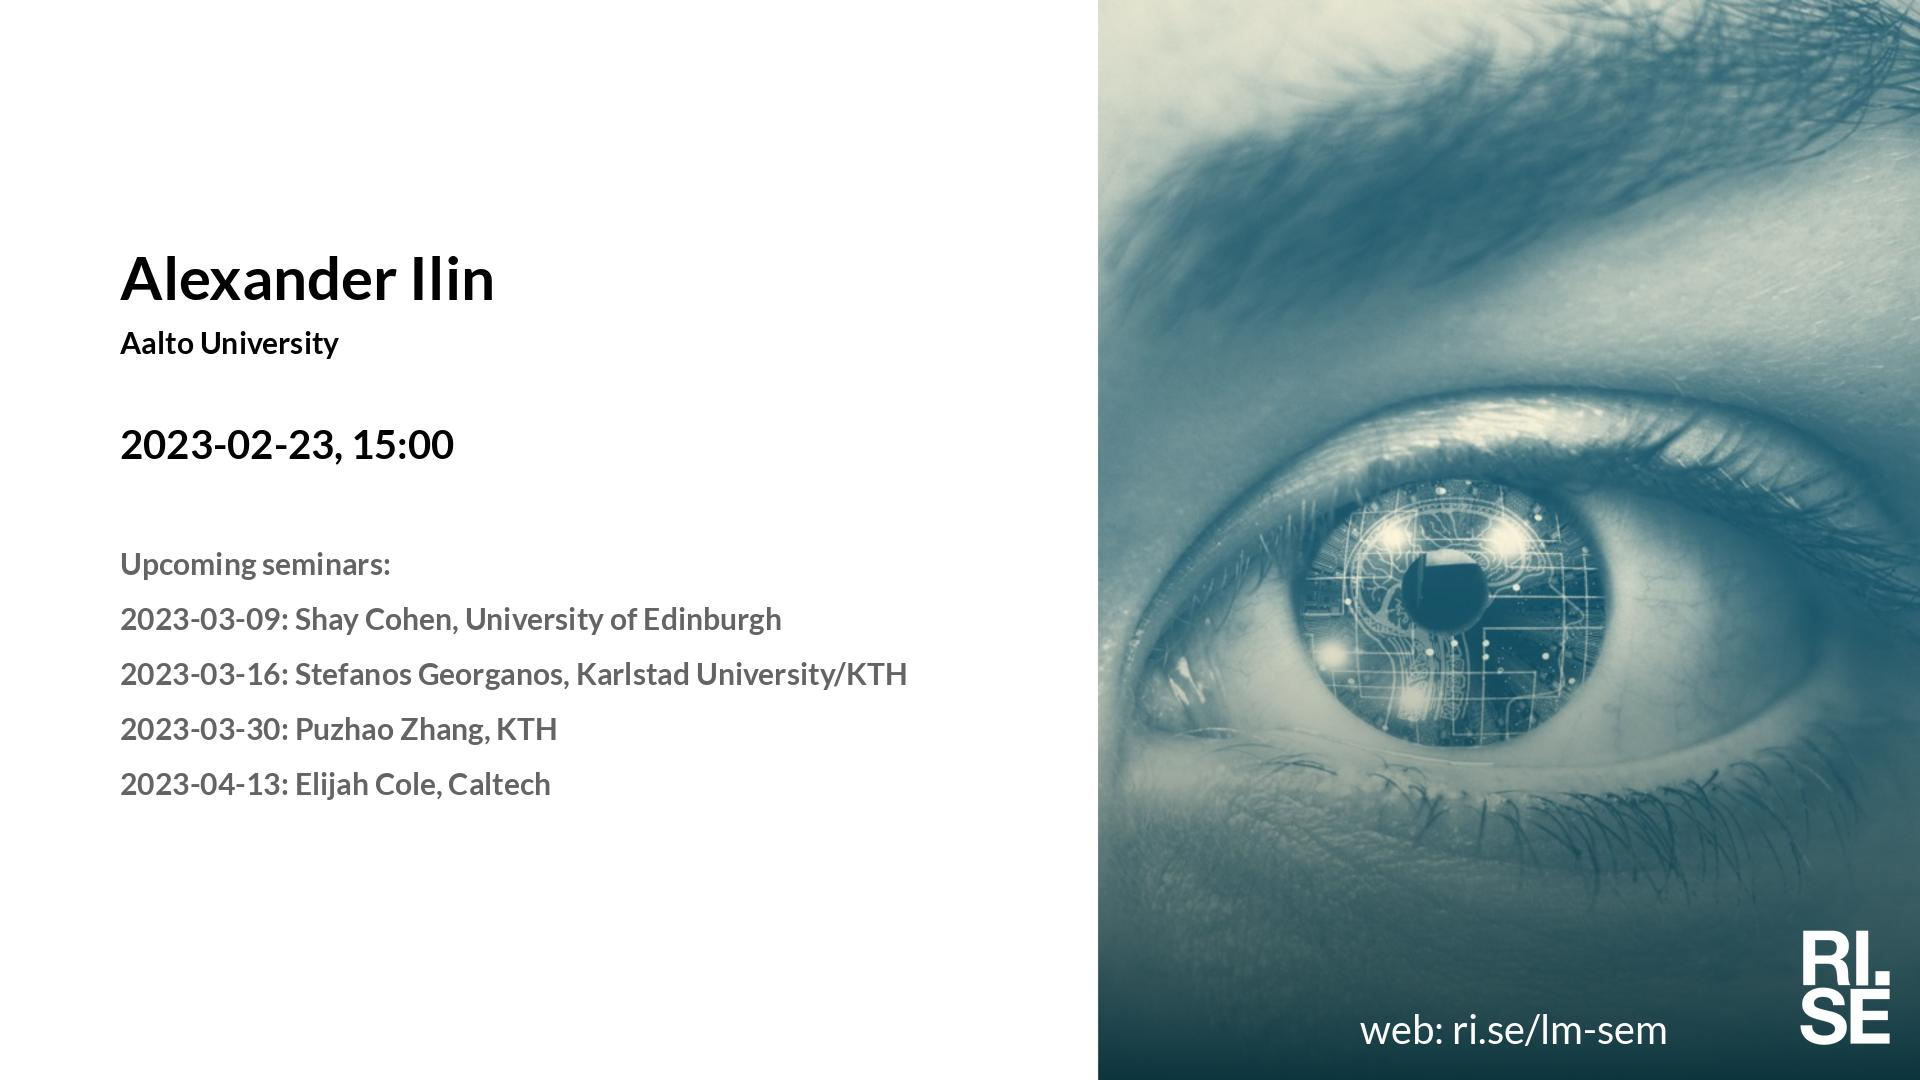
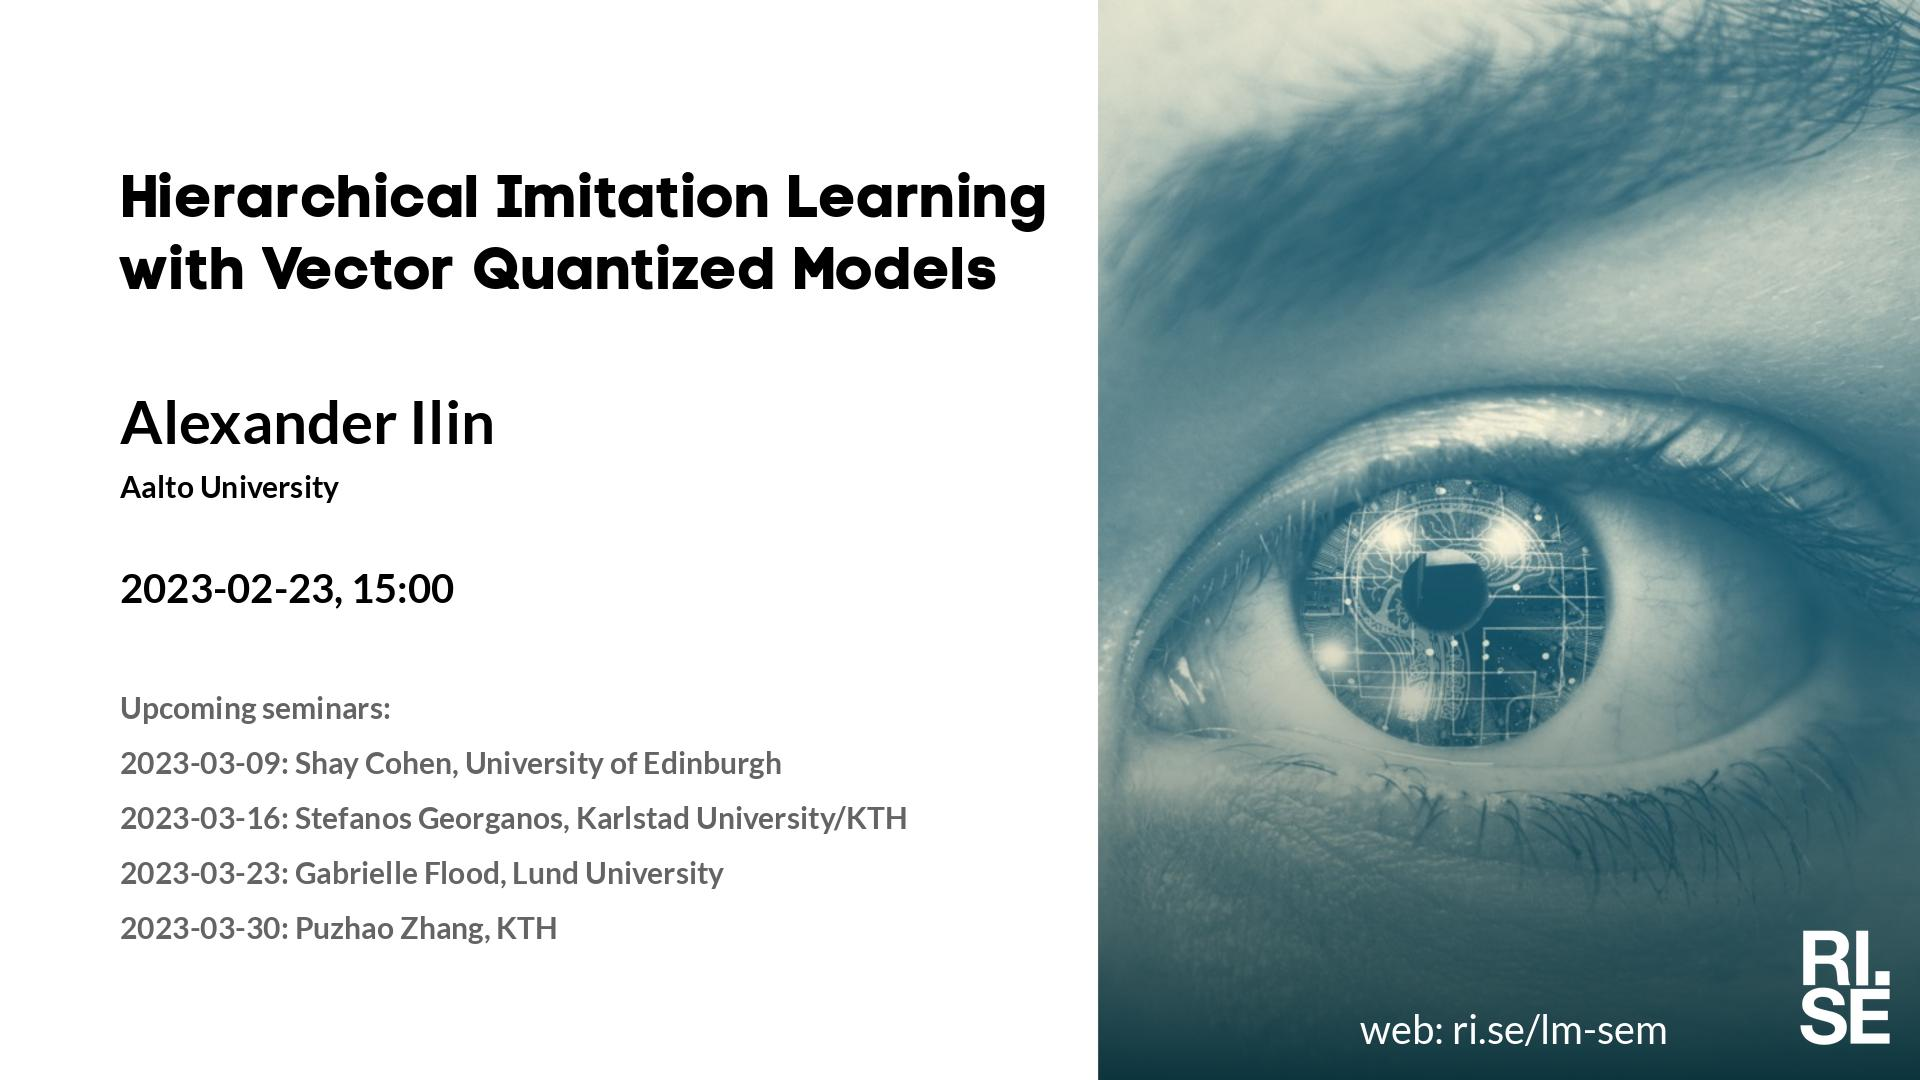
Updated plan on web site.

diff --git a/lm/index.md b/lm/index.md
@@ -1,7 +1,7 @@
 <style type="text/css" scoped>
 td, th {border: 1px solid #ccc; padding: 0.6em;}
 table {border-collapse: collapse;}
-</style># Learning Machines Plan 2023-02-02
+</style># Learning Machines Plan 2023-02-06
 
 | date | speaker                                   | photo | shareable | meeting backdrop | youtube thumbnail | <a title="Speaker, Title, Abstract, Bio, Photo. Strikethrough means we don't have it yet.">comment</a>        |
 | ---- | ----------------------------------------- | ----- | ----- | ----- | ----- | -------------- |
@@ -10,7 +10,7 @@ table {border-collapse: collapse;}
 |  2023-02-02  |  [Vincent Szolnoky, Chalmers University of Technology](2023-02-02.md)  |  [photo](photo-vincent-szolnoky.png)  |  [social media ](social-media-vincent-szolnoky.jpg)  |  [meeting backdrop ](meeting-backdrop-vincent-szolnoky.jpg)  |  [youtube thumbnail ](youtube-thumbnail-vincent-szolnoky.jpg)  |  STABP  |
 |  2023-02-09  |  [Joakim Nivre, Erik Ylipää, and Olof Mogren, RISE](2023-02-09.md)  |  [photo](photo-joakim-nivre--erik-ylipaa--and-olof-mogren.jpg)  |  [social media ](social-media-joakim-nivre--erik-ylipaa--and-olof-mogren.jpg)  |  [meeting backdrop ](meeting-backdrop-joakim-nivre--erik-ylipaa--and-olof-mogren.jpg)  |  [youtube thumbnail ](youtube-thumbnail-joakim-nivre--erik-ylipaa--and-olof-mogren.jpg)  |  STABP  |
 | <span style="color:red"> 2023-02-16 </span> | <span style="color:red"> Sportlov-GBG </span> | <span style="color:red">  </span> | <span style="color:red">  </span> | <span style="color:red">  </span> | <span style="color:red">  </span> | <span style="color:red"> CANCELLED </span> |
-|  2023-02-23  |  [Alexander Ilin, Aalto University](2023-02-23.md)  |  [photo](photo-alexander-ilin.jpg)  |  [social media ](social-media-alexander-ilin.jpg)  |  [meeting backdrop ](meeting-backdrop-alexander-ilin.jpg)  |  [youtube thumbnail ](youtube-thumbnail-alexander-ilin.jpg)  |  S~~TAB~~P  |
+|  2023-02-23  |  [Alexander Ilin, Aalto University](2023-02-23.md)  |  [photo](photo-alexander-ilin.jpg)  |  [social media ](social-media-alexander-ilin.jpg)  |  [meeting backdrop ](meeting-backdrop-alexander-ilin.jpg)  |  [youtube thumbnail ](youtube-thumbnail-alexander-ilin.jpg)  |  STABP  |
 | <span style="color:red"> 2023-03-02 </span> | <span style="color:red"> Sportlov-STHLM </span> | <span style="color:red">  </span> | <span style="color:red">  </span> | <span style="color:red">  </span> | <span style="color:red">  </span> | <span style="color:red"> CANCELLED </span> |
 |  2023-03-09  |  [Shay Cohen, University of Edinburgh](2023-03-09.md)  |  [photo](photo-shay-cohen.jpg)  |  [social media ](social-media-shay-cohen.jpg)  |  [meeting backdrop ](meeting-backdrop-shay-cohen.jpg)  |  [youtube thumbnail ](youtube-thumbnail-shay-cohen.jpg)  |  S~~TAB~~P  |
 |  2023-03-16  |  [Stefanos Georganos, Karlstad University/KTH](2023-03-16.md)  |  [photo](photo-stefanos-georganos.jpg)  |  [social media ](social-media-stefanos-georganos.jpg)  |  [meeting backdrop ](meeting-backdrop-stefanos-georganos.jpg)  |  [youtube thumbnail ](youtube-thumbnail-stefanos-georganos.jpg)  |  STABP  |

diff --git a/lm/2023-02-23.md b/lm/2023-02-23.md
@@ -1,12 +1,12 @@
 Welcome to this week's Learning Machines seminar.
 
-**Title:** 
+**Title:** Hierarchical Imitation Learning with Vector Quantized Models
 
 **Speaker:** Alexander Ilin, Aalto University
 
-**Abstract:** 
+**Abstract:** The ability to plan actions on multiple levels of abstraction enables intelligent agents to solve complex tasks effectively. However, learning the models for both low and high-level planning from demonstrations has proven challenging, especially with higher-dimensional inputs. To address this problem, we propose to use reinforcement learning to identify subgoals in expert trajectories by associating the magnitude of the rewards with the predictability of low-level actions given the state and the chosen subgoal. We build a vector-quantized generative model for the identified subgoals to perform subgoal-level planning. In experiments, the algorithm excels at solving complex, long-horizon decision-making problems outperforming state-of-the-art. Because of its ability to plan, our algorithm can find better trajectories than the ones in the training set.
 
-**About the speaker:** 
+**About the speaker:** Alexander Ilin is a Professor of Practice in the Department of Computer Science of Aalto University. He was a research scientist at Curious AI, Amazon and Analyse2. He obtained his PhD degree from Helsinki University of Technology under the supervision of Prof. Erkki Oja and Dr. Harri Valpola. His research interests focus on deep representation learning and model-based reinforcement learning.
 
 **Location:** This is an online seminar. Connect using Zoom.
 
@@ -16,8 +16,8 @@ Welcome to this week's Learning Machines seminar.
 
 * 2023-03-09: Shay Cohen, University of Edinburgh
 * 2023-03-16: Stefanos Georganos, Karlstad University/KTH
+* 2023-03-23: Gabrielle Flood, Lund University
 * 2023-03-30: Puzhao Zhang, KTH
-* 2023-04-13: Elijah Cole, Caltech
 
 More information and coming seminars: [https://ri.se/lm-sem](https://ri.se/lm-sem)
 
